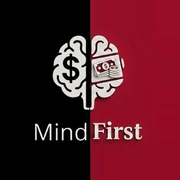
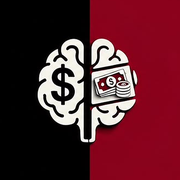
Novo símbolo do MindFirst, sem texto e centralizado

Changed region(s): [[0.1944, 0.0, 0.8056, 1.0]]

diff --git a/index.html b/index.html
@@ -8,8 +8,8 @@
 <meta name="apple-mobile-web-app-title" content="MindFirst">
 <meta name="apple-mobile-web-app-status-bar-style" content="black-translucent">
 <meta name="theme-color" content="#06070a">
-<link rel="apple-touch-icon" sizes="180x180" href="/apple-touch-icon.png?v=2">
-<link rel="icon" type="image/png" sizes="32x32" href="/favicon-32.png?v=2">
+<link rel="apple-touch-icon" sizes="180x180" href="/apple-touch-icon.png?v=3">
+<link rel="icon" type="image/png" sizes="32x32" href="/favicon-32.png?v=3">
 <link rel="manifest" href="/manifest.webmanifest">
 <meta name="mobile-web-app-capable" content="yes">
 <link rel="stylesheet" href="https://fonts.googleapis.com/css2?family=Inter:wght@400;500;600;700&family=JetBrains+Mono:wght@400;500;600&family=Rajdhani:wght@500;600;700&display=swap">
@@ -565,7 +565,7 @@ html[data-fx="off"] .ledb,html[data-fx="off"] .scan,html[data-fx="off"] body::be
 </head>
 <body>
 <header class="top">
[2 lines of base64/hex data omitted]
   <div class="brand">
     <div class="brand-t">MINDFIRST</div>
     <div class="status"><span id="st"><i class="dot local"></i>Iniciando</span><span id="relogio"></span></div>
@@ -1886,7 +1886,7 @@ function renderAuth(msg, tipo){
   const el = document.getElementById("auth"), cad = modoAuth === "criar", rec = modoAuth === "nova";
   const dica = (ehIOS && !ehApp() && !rec) ? `<p class="a-dica">Dica: para usar como app, toque em <b>Compartilhar › Adicionar à Tela de Início</b> e deixe <b>Abrir como App Web</b> ligado.</p>` : "";
   el.innerHTML = `<div class="auth-box">
-    <img src="/icon-192.png?v=2" alt="MindFirst">
+    <img src="/icon-192.png?v=3" alt="MindFirst">
     <h1>${rec ? "Criar nova senha" : cad ? "Criar sua conta" : "Entrar no MindFirst"}</h1>
     <p>${rec ? "Digite a nova senha da sua conta." : cad ? "Seus dados ficam guardados na sua conta e aparecem no celular e no computador." : "Use seu e-mail e senha."}</p>
     <form onsubmit="event.preventDefault();enviarAuth()">

diff --git a/sw.js b/sw.js
@@ -7,8 +7,8 @@ self.addEventListener("push", (e) => {
   try { d = e.data ? e.data.json() : {}; } catch (_) { d = { titulo: "MindFirst", corpo: e.data ? e.data.text() : "" }; }
   e.waitUntil(self.registration.showNotification(d.titulo || "MindFirst", {
     body: d.corpo || "",
-    icon: "/icon-192.png?v=2",
-    badge: "/icon-192.png?v=2",
+    icon: "/icon-192.png?v=3",
+    badge: "/icon-192.png?v=3",
     tag: d.tag || undefined,
     data: { url: d.url || "/" },
   }));
